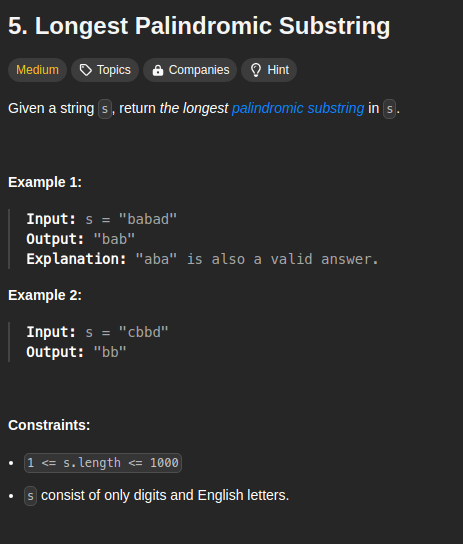
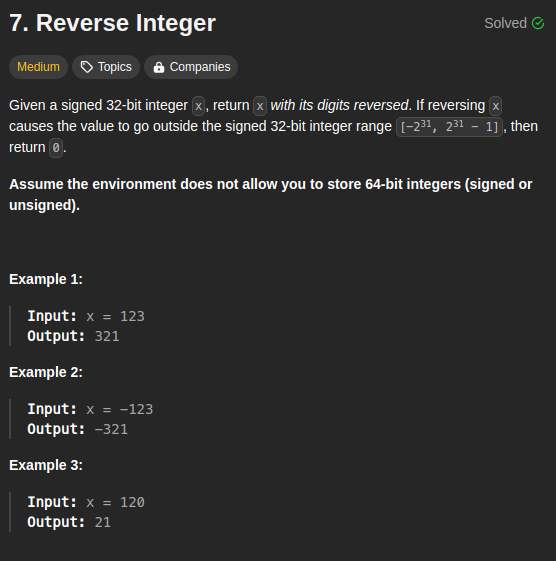
Решение 7-ой задачи (Medium)

diff --git a/Medium/1/7_ReverseInteger/README.md b/Medium/1/7_ReverseInteger/README.md
@@ -1,6 +1,6 @@
 <h1 align="center">Ссылка на задачу
-    <a href='https://leetcode.com/problems/longest-palindromic-substring/description/'>
-  5. Longest Palindromic Substring
+    <a href='https://leetcode.com/problems/reverse-integer/description/'>
+  7. Reverse Integer
     </a>
 </h1>   
 <img src="./info/task.png" height="100%" width="100%"/>

diff --git a/Medium/1/6_ZigzagConversion/README.md b/Medium/1/6_ZigzagConversion/README.md
@@ -1,6 +1,6 @@
 <h1 align="center">Ссылка на задачу
-    <a href='https://leetcode.com/problems/longest-palindromic-substring/description/'>
-  5. Longest Palindromic Substring
+    <a href='https://leetcode.com/problems/zigzag-conversion/'>
+  6. Zigzag Conversion
     </a>
 </h1>   
 <img src="./info/task.png" height="100%" width="100%"/>
